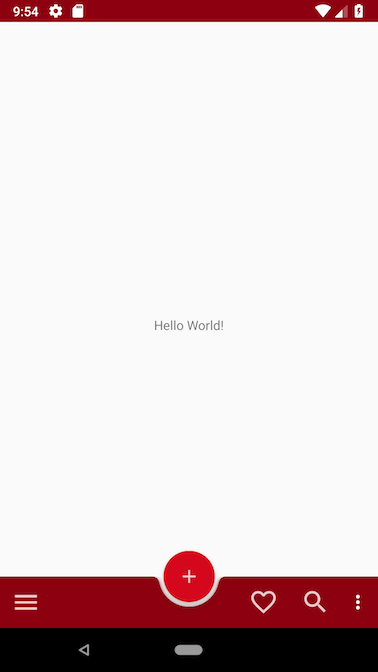
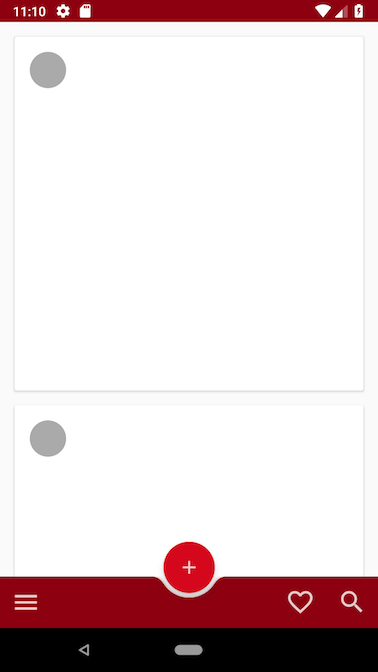
feat: add card list view

diff --git a/app/src/main/java/android/lekaha/mobile/bottomappbar/MainAdapter.kt b/app/src/main/java/android/lekaha/mobile/bottomappbar/MainAdapter.kt
@@ -1,0 +1,25 @@
+package android.lekaha.mobile.bottomappbar
+
+import android.view.LayoutInflater
+import android.view.ViewGroup
+import androidx.recyclerview.widget.RecyclerView
+
+class MainAdapter : RecyclerView.Adapter<MainAdapter.ViewHolder>() {
+
+    override fun onCreateViewHolder(parent: ViewGroup, viewType: Int): ViewHolder {
+        return ViewHolder(parent,
+                R.layout.layout_item)
+    }
+
+    override fun onBindViewHolder(holder: ViewHolder, position: Int) {
+        /** empty implementation */
+    }
+
+    override fun getItemCount(): Int {
+        return 11
+    }
+
+    open class ViewHolder(parent: ViewGroup?, resId: Int)
+        : RecyclerView.ViewHolder(LayoutInflater.from(parent?.context)
+            .inflate(resId, parent, false))
+}

diff --git a/app/src/main/java/android/lekaha/mobile/bottomappbar/MainActivity.kt b/app/src/main/java/android/lekaha/mobile/bottomappbar/MainActivity.kt
@@ -6,6 +6,7 @@ import android.view.MenuItem
 import androidx.appcompat.app.AppCompatActivity
 import androidx.core.view.GravityCompat
 import androidx.core.widget.toast
+import androidx.recyclerview.widget.LinearLayoutManager
 import kotlinx.android.synthetic.main.activity_main.*
 import kotlinx.android.synthetic.main.layout_bottombar.*
 
@@ -15,6 +16,10 @@ class MainActivity : AppCompatActivity() {
         super.onCreate(savedInstanceState)
         setContentView(R.layout.activity_main)
         setSupportActionBar(bottom_app_bar)
+
+        recycler_view.setHasFixedSize(true)
+        recycler_view.layoutManager = LinearLayoutManager(this)
+        recycler_view.adapter = MainAdapter()
     }
 
     override fun onCreateOptionsMenu(menu: Menu): Boolean {
